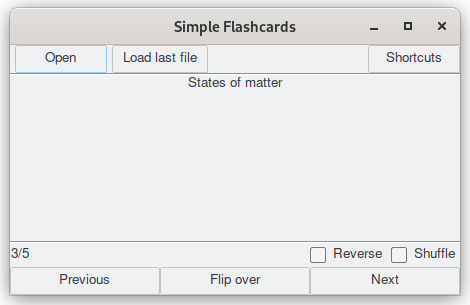
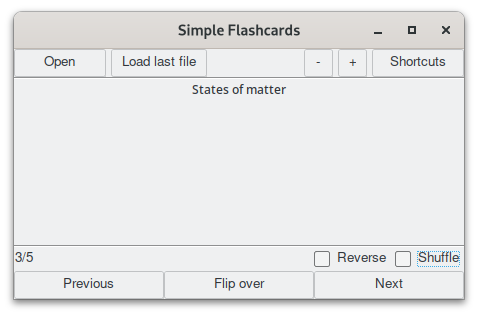
Add zoom in/out

Changed region(s): [[0.0, 0.0, 1.0, 1.0]]

diff --git a/simple-flashcards.py b/simple-flashcards.py
@@ -25,12 +25,25 @@ def cardNumString(deck):
     return f"{cardNumber}/{numCards}"
 
 
-# https://stackoverflow.com/a/62485627
-class WrappingLabel(tk.Label):
-    '''a type of Label that automatically adjusts the wrap to the size'''
+class CardLabel(tk.Label):
     def __init__(self, master=None, **kwargs):
         super().__init__(master, **kwargs)
+
+        # automatically adjust the wrap to the size
+        # https://stackoverflow.com/a/62485627
         self.bind('<Configure>', lambda e: self.config(wraplength=self.winfo_width()))
+
+        font = self.cget("font")
+        self.font = tk.font.nametofont('TkDefaultFont')
+        self.configure(font=self.font)
+
+    def get_size(self):
+        # multiplying by -1 is necessary here
+        return int(self.font.cget('size')) * -1
+
+    def set_size(self, newSize):
+        # multiplying by -1 is necessary here
+        self.font.configure(size=(newSize * -1))
 
 class App(ThemedTk):
     def __init__(self, *args, **kwargs):
@@ -44,10 +57,14 @@ class App(ThemedTk):
         self.data_dir = user_data_dir('simple-flashcards')
         pathlib.Path(self.data_dir).mkdir(parents=True, exist_ok=True)
 
+        self.cardNumVar = tk.StringVar();
+        self.shuffled = tk.IntVar()
+        self.reversed = tk.IntVar()
+
         self.addTopButtons()
         ttk.Separator(self, orient='horizontal').pack(fill=tk.X)
 
-        self.mainLabel = WrappingLabel(self, anchor='n')
+        self.mainLabel = CardLabel(self, anchor='n')
         self.mainLabel.pack(side=tk.TOP, fill=tk.BOTH, expand=True)
         add_bidi_support(self.mainLabel)
         self.mainLabel.set('Click Open to open a deck of flashcards.')
@@ -61,20 +78,22 @@ class App(ThemedTk):
         topFrame = ttk.Frame(self)
 
         ttk.Button(topFrame, text="Open",
-                command=self.show_filedialog).pack(side=tk.LEFT, padx=5)
+                command=self.show_filedialog).pack(side=tk.LEFT)
         ttk.Button(topFrame, text="Load last file",
-                command=self.open_last_file).pack(side=tk.LEFT)
+                command=self.open_last_file).pack(side=tk.LEFT, padx=5)
+
         ttk.Button(topFrame, text="Shortcuts",
-                command=self.show_shortcuts).pack(side=tk.RIGHT)
+                   command=self.show_shortcuts).pack(side=tk.RIGHT)
+        ttk.Button(topFrame, text="+", width=1,
+                command=self.larger_card_text).pack(side=tk.RIGHT, padx=5)
+        ttk.Button(topFrame, text="-", width=1,
+                command=self.smaller_card_text).pack(side=tk.RIGHT)
 
         topFrame.pack(fill=tk.X)
 
     def addStatusbar(self):
-        self.cardNumVar = tk.StringVar();
         self.cardNumVar.set('0/0')
-        self.shuffled = tk.IntVar()
         self.shuffled.set(0)
-        self.reversed = tk.IntVar()
         self.reversed.set(0)
 
         statusFrame = ttk.Frame(self)
@@ -149,6 +168,14 @@ class App(ThemedTk):
         )
         self.open_file(filename)
 
+    def smaller_card_text(self):
+        oldSize = self.mainLabel.get_size()
+        self.mainLabel.set_size(oldSize - 1)
+
+    def larger_card_text(self):
+        oldSize = self.mainLabel.get_size()
+        self.mainLabel.set_size(oldSize + 1)
+
     def show_shortcuts(self):
         entries = [
                 ('Shortcut', 'Action'),
@@ -158,6 +185,8 @@ class App(ThemedTk):
                 ('f', 'Flip over'),
                 ('s', 'Toggle shuffle'),
                 ('r', 'Toggle reverse'),
+                ('+', 'Zoom in'),
+                ('-', 'Zoom out'),
                 ('Ctrl-o', 'Open a flashcard file'),
                 ('Ctrl-l', 'Load last file'),
                 ('Ctrl-h', 'Show this window'),
@@ -187,15 +216,19 @@ class App(ThemedTk):
         self.bind('<Control-o>', lambda _: self.show_filedialog())
         self.bind('<Control-l>', lambda _: self.open_last_file())
         self.bind('<Control-h>', lambda _: self.show_shortcuts())
-        self.bind('s', lambda _: self.cardCb(toggle_shuffle)())
-        self.bind('r', lambda _: self.cardCb(toggle_reverse)())
-        self.bind('j', lambda _: self.cardCb(self.deck.next_card)())
-        self.bind('k', lambda _: self.cardCb(self.deck.prev_card)())
-        self.bind('f', lambda _: self.cardCb(self.deck.flip)())
+        self.bind('+', lambda _: self.larger_card_text())
+        self.bind('=', lambda _: self.larger_card_text()) # convenience
+        self.bind('-', lambda _: self.smaller_card_text())
+        self.bind('_', lambda _: self.smaller_card_text()) # convenience
+        self.bind('s', self.cardCb(toggle_shuffle))
+        self.bind('r', self.cardCb(toggle_reverse))
+        self.bind('j', self.cardCb(self.deck.next_card))
+        self.bind('k', self.cardCb(self.deck.prev_card))
+        self.bind('f', self.cardCb(self.deck.flip))
 
     def cardCb(self, f):
         # returns a callback function that calls "f" then updates the view
-        def inner():
+        def inner(*args, **kwargs):
             f()
             self.updateCardView()
         return inner
